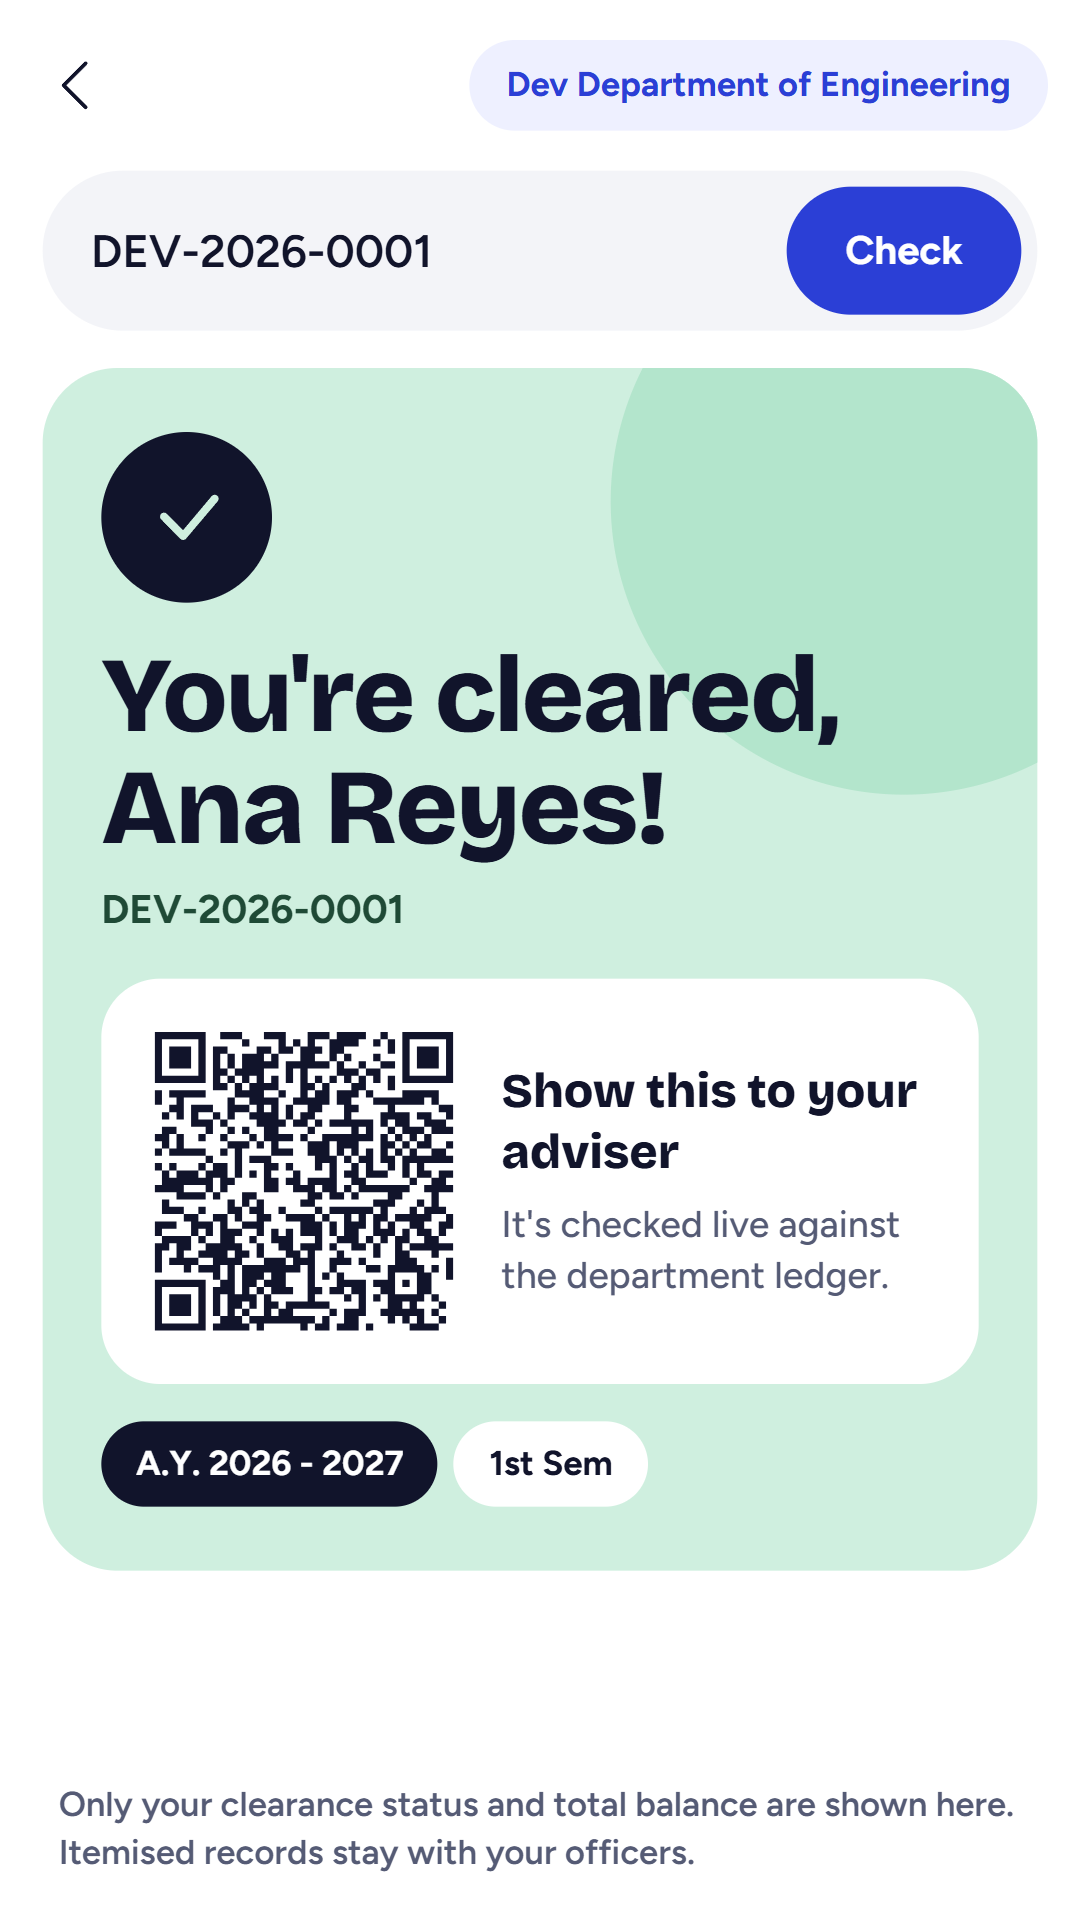
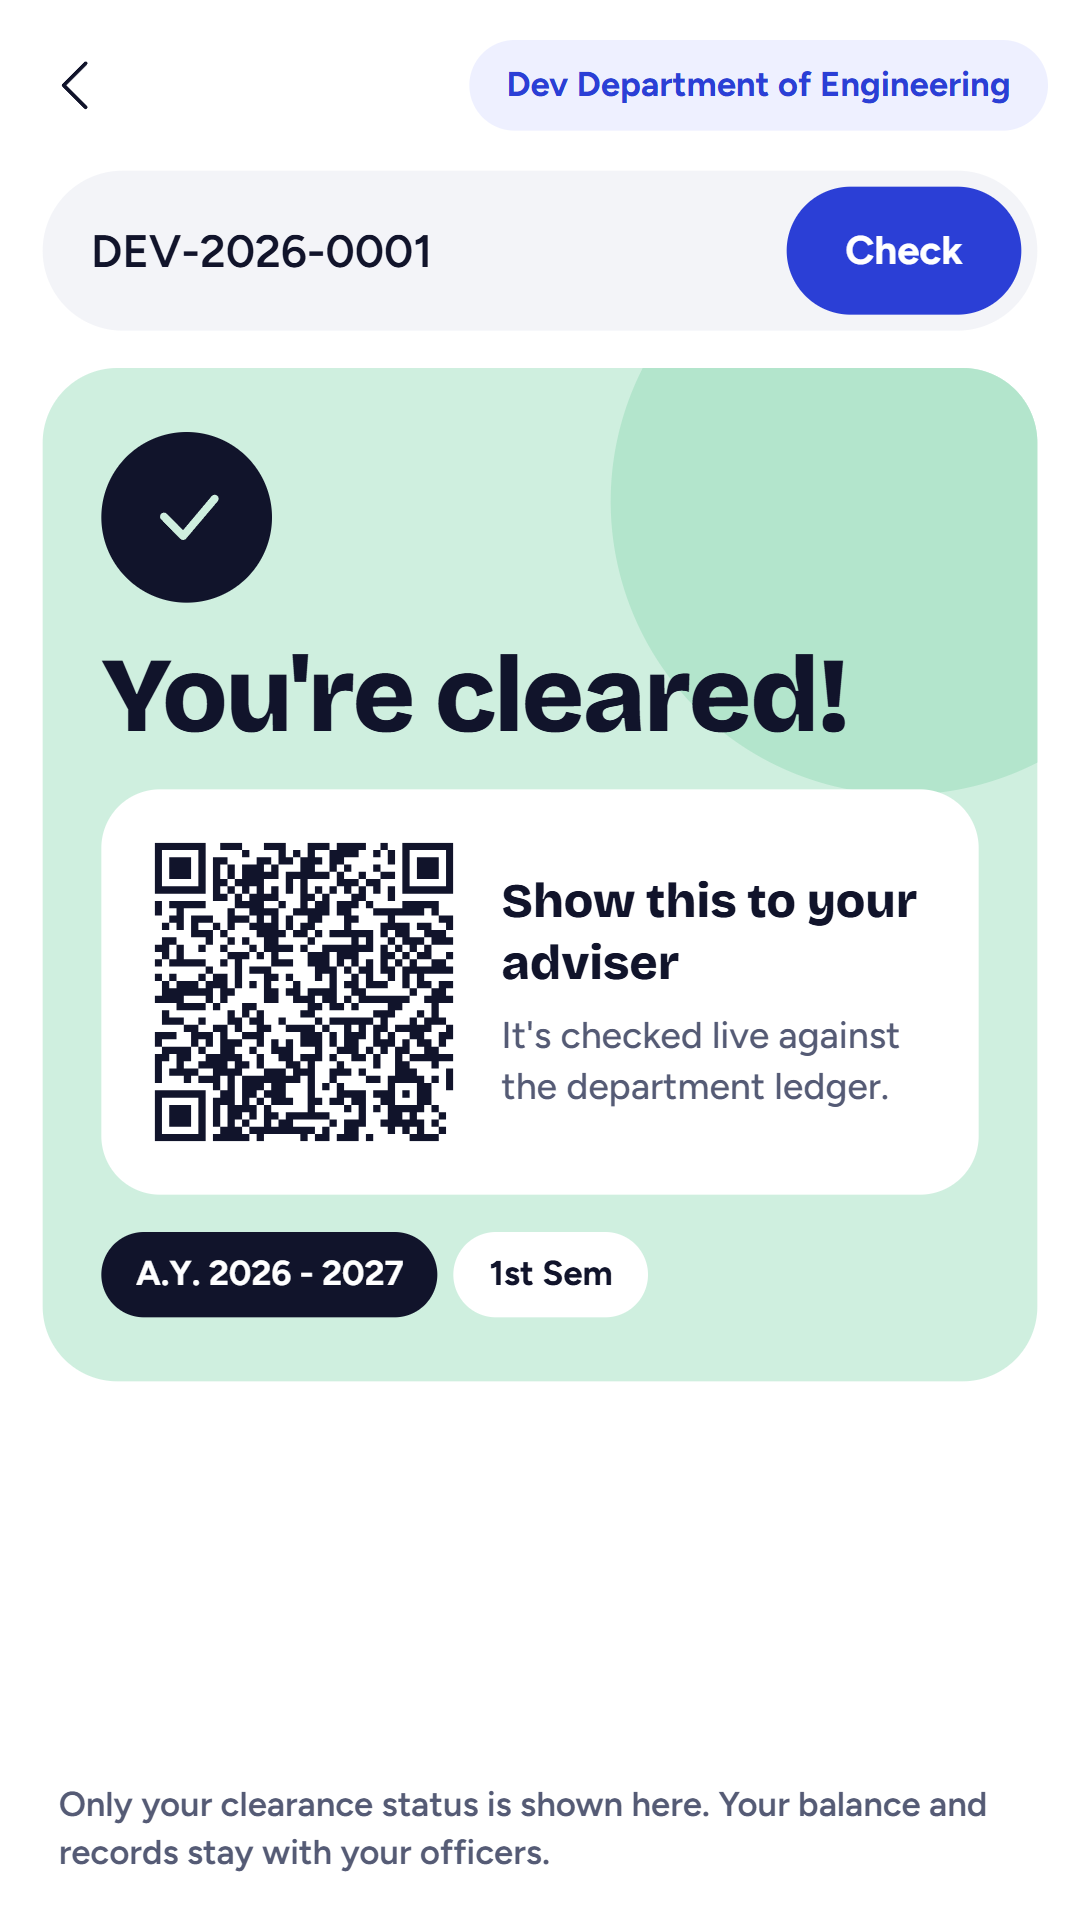
Mobile 1.1.1: tidy anonymous clearance card; retake Play shots 02-03
The on-hold card no longer repeats "On hold" under its heading when the
public lookup has no student ID, and the public footer no longer claims the
balance is shown. Screenshots 02 and 03 now show the nameless results.

Changed region(s): [[0.0306, 0.3438, 0.9778, 0.8438], [0.0611, 0.9375, 0.9167, 0.9688]]

diff --git a/mobile/src/components/ui/student.tsx b/mobile/src/components/ui/student.tsx
@@ -63,7 +63,8 @@ export function ClearanceCard({ studentName, studentId, status, outstanding = nu
     <ResultBlock tone="coral" label="Clearance result: on hold">
       <IconWell icon="exclaim" bg={c.inkBlock} fg={c.coral} size={64} round />
       <Text variant="display" accessibilityRole="header">{studentName ? `Almost there, ${studentName}` : "Clearance on hold"}</Text>
-      <Text variant="bodyStrong" color="coralInk" style={{ fontSize: 15 }}>{studentId ? `${studentId} · On hold` : "On hold"}</Text>
+      {/* Public lookups carry no ID, and the heading already says "on hold". */}
+      {studentId ? <Text variant="bodyStrong" color="coralInk" style={{ fontSize: 15 }}>{`${studentId} · On hold`}</Text> : null}
       {outstanding === null ? (
         <Text variant="body" color="coralDeep">
           {"You still have dues to settle. Ask your treasurer for the amount, or send a GCash or Maya receipt if you've already paid."}

diff --git a/mobile/src/app/d/[dept]/clearance.tsx b/mobile/src/app/d/[dept]/clearance.tsx
@@ -134,7 +134,9 @@ export default function Clearance() {
       <Text variant="caption" color="inkMuted" style={styles.note}>
         {result?.unpaidItems?.length
           ? 'Payment records and receipts stay with your officers. Ask your treasurer if an item looks wrong.'
-          : 'Only your clearance status and total balance are shown here. Itemised records stay with your officers.'}
+          : (result?.outstandingCentavos ?? null) === null
+            ? 'Only your clearance status is shown here. Your balance and records stay with your officers.'
+            : 'Only your clearance status and total balance are shown here. Itemised records stay with your officers.'}
       </Text>
     </Screen>
   );

diff --git a/mobile/store/RELEASE.md b/mobile/store/RELEASE.md
@@ -203,6 +203,7 @@ Built on 1.1.0 plus Ken's updates to PR #18 (2026-10-19, up to 1173bc6). Server 
 
 - Public clearance lookups no longer show the student's name or ID; the result card says "You're cleared!" or "Clearance on hold" instead. Officers still see both. (Since eb1b5b1 the API returns `null` for both on public lookups, so 1.0.x and 1.1.0 show "null" there until users update.)
 - "I paid — send my receipt" prefills the student ID that was typed, since the result no longer returns it.
+- Our touch-ups on Ken's change: the on-hold card no longer repeats "On hold" under its heading when there is no ID, and the public footer no longer says the balance is shown.
 - Server only (no app change needed): penalty receipts are filed as Penalty, not Others; verifying a remittance rejects a fund that isn't in the term's ledger; unsettled penalties always block clearance; Manila dates in financial summaries.
 - Play screenshots 02 and 03 retaken without the student's name.
 
